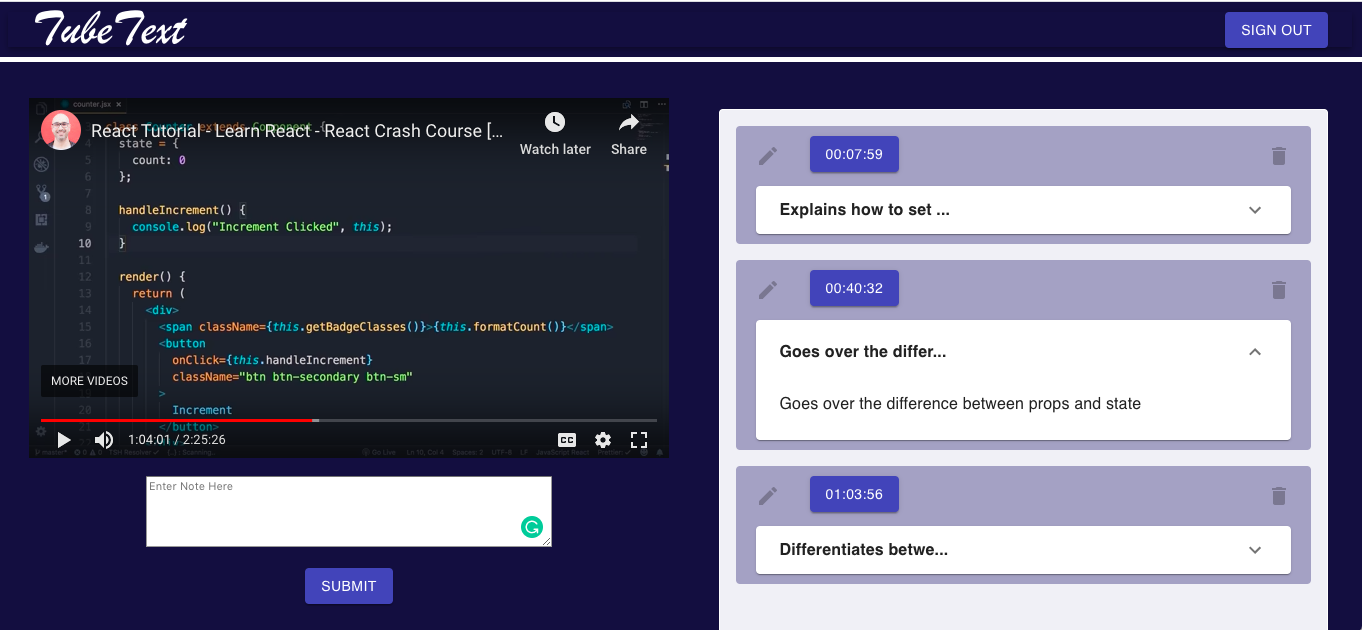
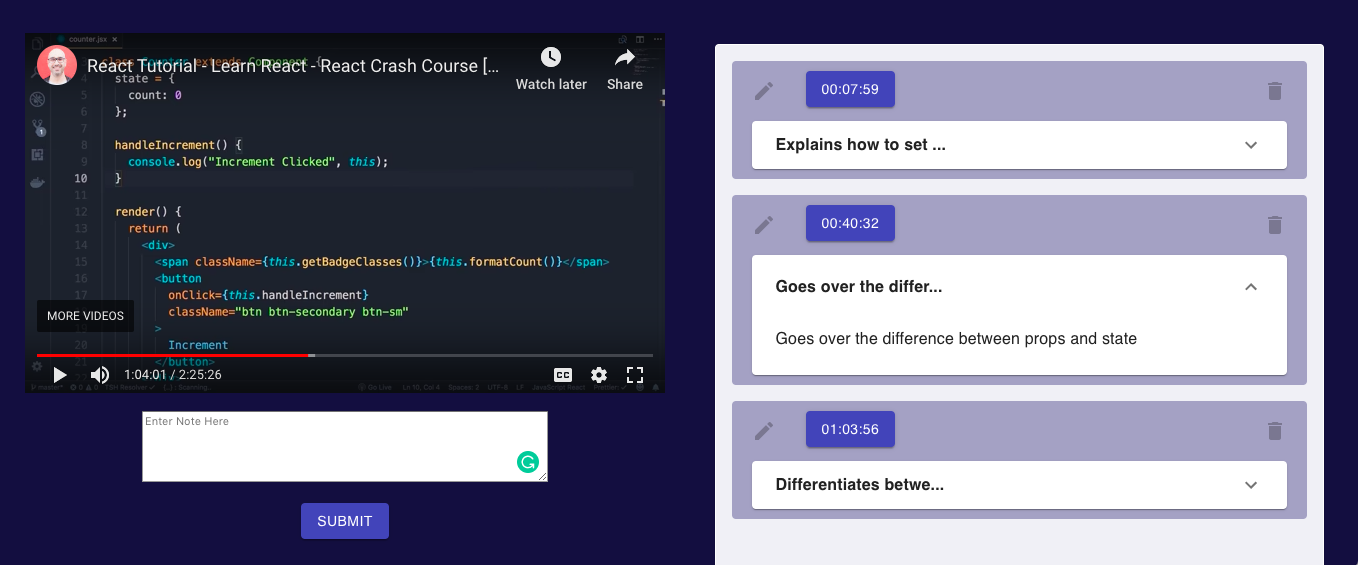
added new homepage

diff --git a/client/src/components/views/homePageView.jsx b/client/src/components/views/homePageView.jsx
@@ -123,10 +123,10 @@ const HomePageView = (props) => {
       
         <div>
 
-        <div style={{borderBottom: '5px solid white', padding: '10px'}}>
+        <div style={{borderBottom: '5px solid white', padding: '10px', width: '100%'}}>
           <AppBar position="static" className = {classes.customizeAppBar}>
           <Toolbar className = {classes.customizeToolBar}>
-              <Typography variant="h6" className={classes.title} color = "inherit" style={{fontType: 'bold', fontFamily: 'Brush Script MT, sans-serif', fontSize: '50px'}}>
+              <Typography variant="h6" className={classes.title} color = "inherit" style={{fontType: 'bold', fontFamily: 'Courier, sans-serif', fontSize: '35px', color: '#CDDC39'}}>
                   TubeText
               </Typography>
               
@@ -163,10 +163,17 @@ const HomePageView = (props) => {
                     })
                 }
             </Carousel> */}
-
-            {/* <img src={require('../images/image1.png')} alt="image1"/>
-            <img src={require('../images/image2.png')} alt="image2"/>
-            <img src={require('../images/image3.png')} alt="image3"/> */}
+           
+            <div style={{backgroundColor: 'white', textAlign: 'center', color: 'black', width: '100%', margin: '0px', padding: '10px'}}><h1>Take Timestamped Video Notes in Real Time</h1></div>
+            <img src={require('../images/image1.png')} alt="image1" style={{width: '100%', margin: '0px'}}/>
+            
+            <div style={{backgroundColor: 'white', textAlign: 'center', color: 'black', width: '100%', margin: '0px', padding: '11px'}}><h1>Create Unlimited Study Sessions With Any Video</h1></div>
+            <img src={require('../images/image2.png')} alt="image2" style={{width: '100%'}}/>
+            
+            <div style={{backgroundColor: 'white', textAlign: 'center', color: 'black', width: '100%', margin: '0px', padding: '11px'}}><h1>Generate PDFs of your Notes to Export Anywhere</h1></div>
+            <img src={require('../images/image3.png')} alt="image3" style={{width: '100%'}}/>
+            
+            <div style={{backgroundColor: 'white', textAlign: 'center', color: 'black', width: '100%', margin: '0px', padding: '11px'}}><h1>Log in or Sign up for an Account Today</h1></div>
 
         </div>
 

diff --git a/client/src/components/routes/RoutesView.jsx b/client/src/components/routes/RoutesView.jsx
@@ -105,7 +105,7 @@ const RoutesView = (props) => {
           </AppBar>
       </div> */}
       {/* <Router> */}
-        {/* <Route exact path="/" render={HomePageComponent}/> */}
+        <Route exact path="/" render={HomePageComponent}/>
         <Route exact path="/" component={Login} />
         <Route exact path="/login" component={Login} />
         <Route exact path="/signup" component={Signup} />
@@ -116,7 +116,7 @@ const RoutesView = (props) => {
           {/* Routes placed within this section are only available after
           logging in */}
             <div>
-                <div style={{borderBottom: '5px solid white', padding: '10px'}}>
+                <div style={{borderBottom: '5px solid white', padding: '10px', width: '100%'}}>
                     <AppBar position="static" className = {classes.customizeAppBar}>
                     <Toolbar className = {classes.customizeToolBar}>
                         <Typography variant="h6" className={classes.title} color = "inherit" style={{fontType: 'bold', fontFamily: 'Courier, sans-serif', fontSize: '35px', color: '#CDDC39'}}>

diff --git a/client/src/components/views/AuthFormView.jsx b/client/src/components/views/AuthFormView.jsx
@@ -97,7 +97,7 @@ const AuthFormView = props => {
   return (
     <div>
 
-      <div style={{borderBottom: '5px solid white', padding: '10px'}}>
+      <div style={{borderBottom: '5px solid white', padding: '10px', width: '100%'}}>
           <AppBar position="static" className = {classes.customizeAppBar}>
           <Toolbar className = {classes.customizeToolBar}>
               <Typography variant="h6" className={classes.title} color = "inherit" style={{fontType: 'bold', fontFamily: 'Courier, sans-serif', fontSize: '35px', color: '#CDDC39'}}>
